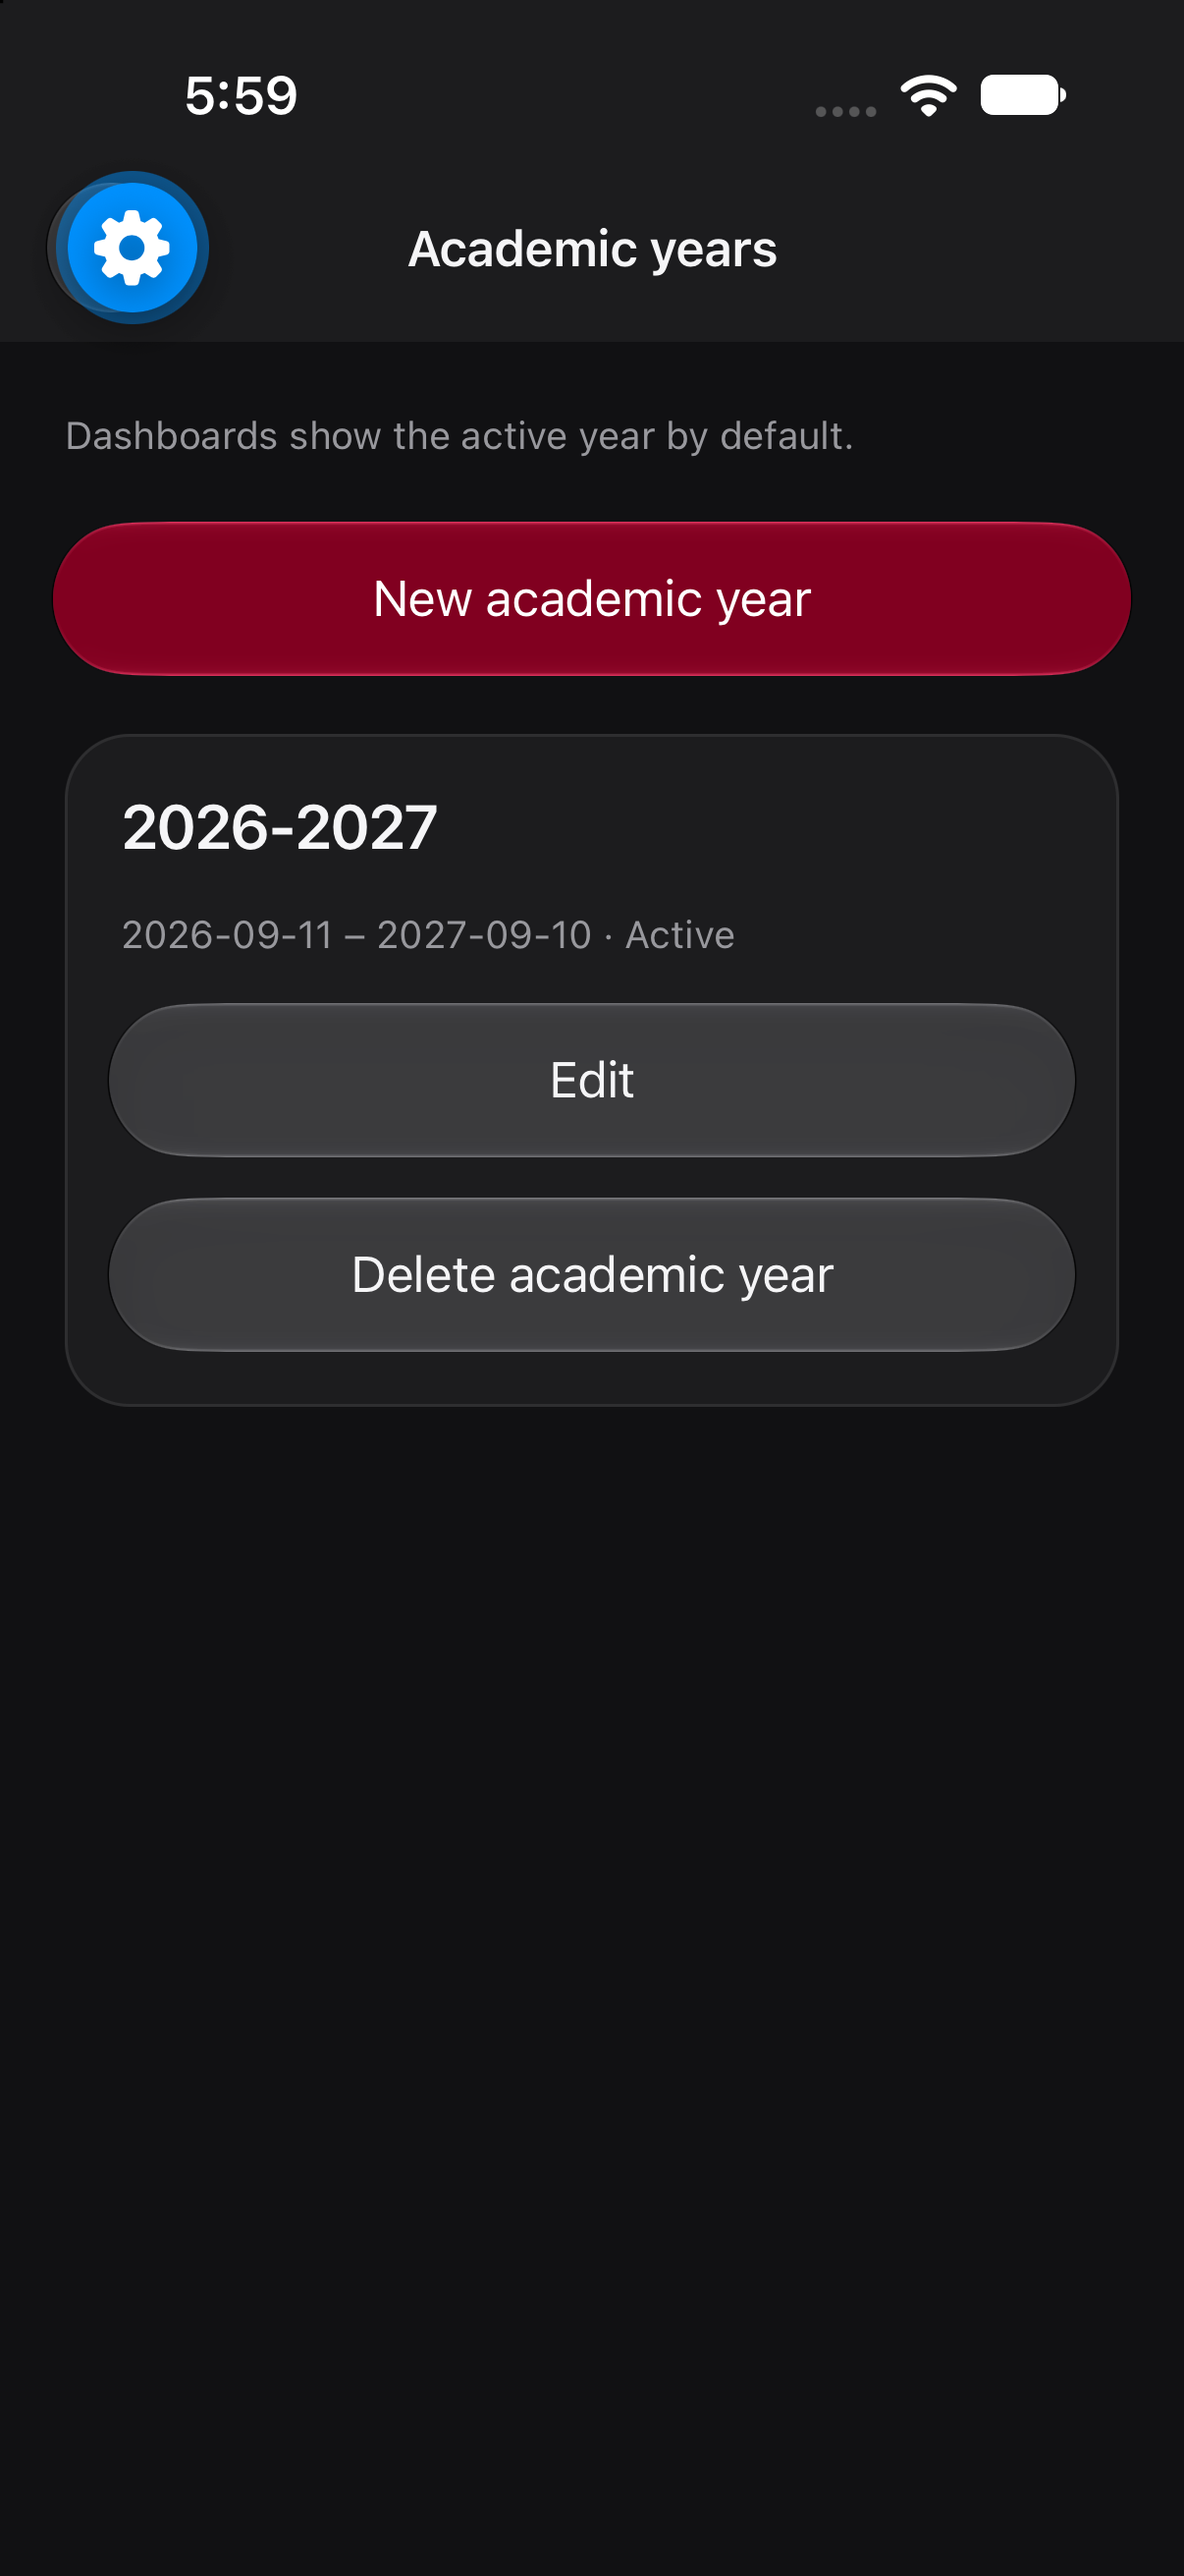
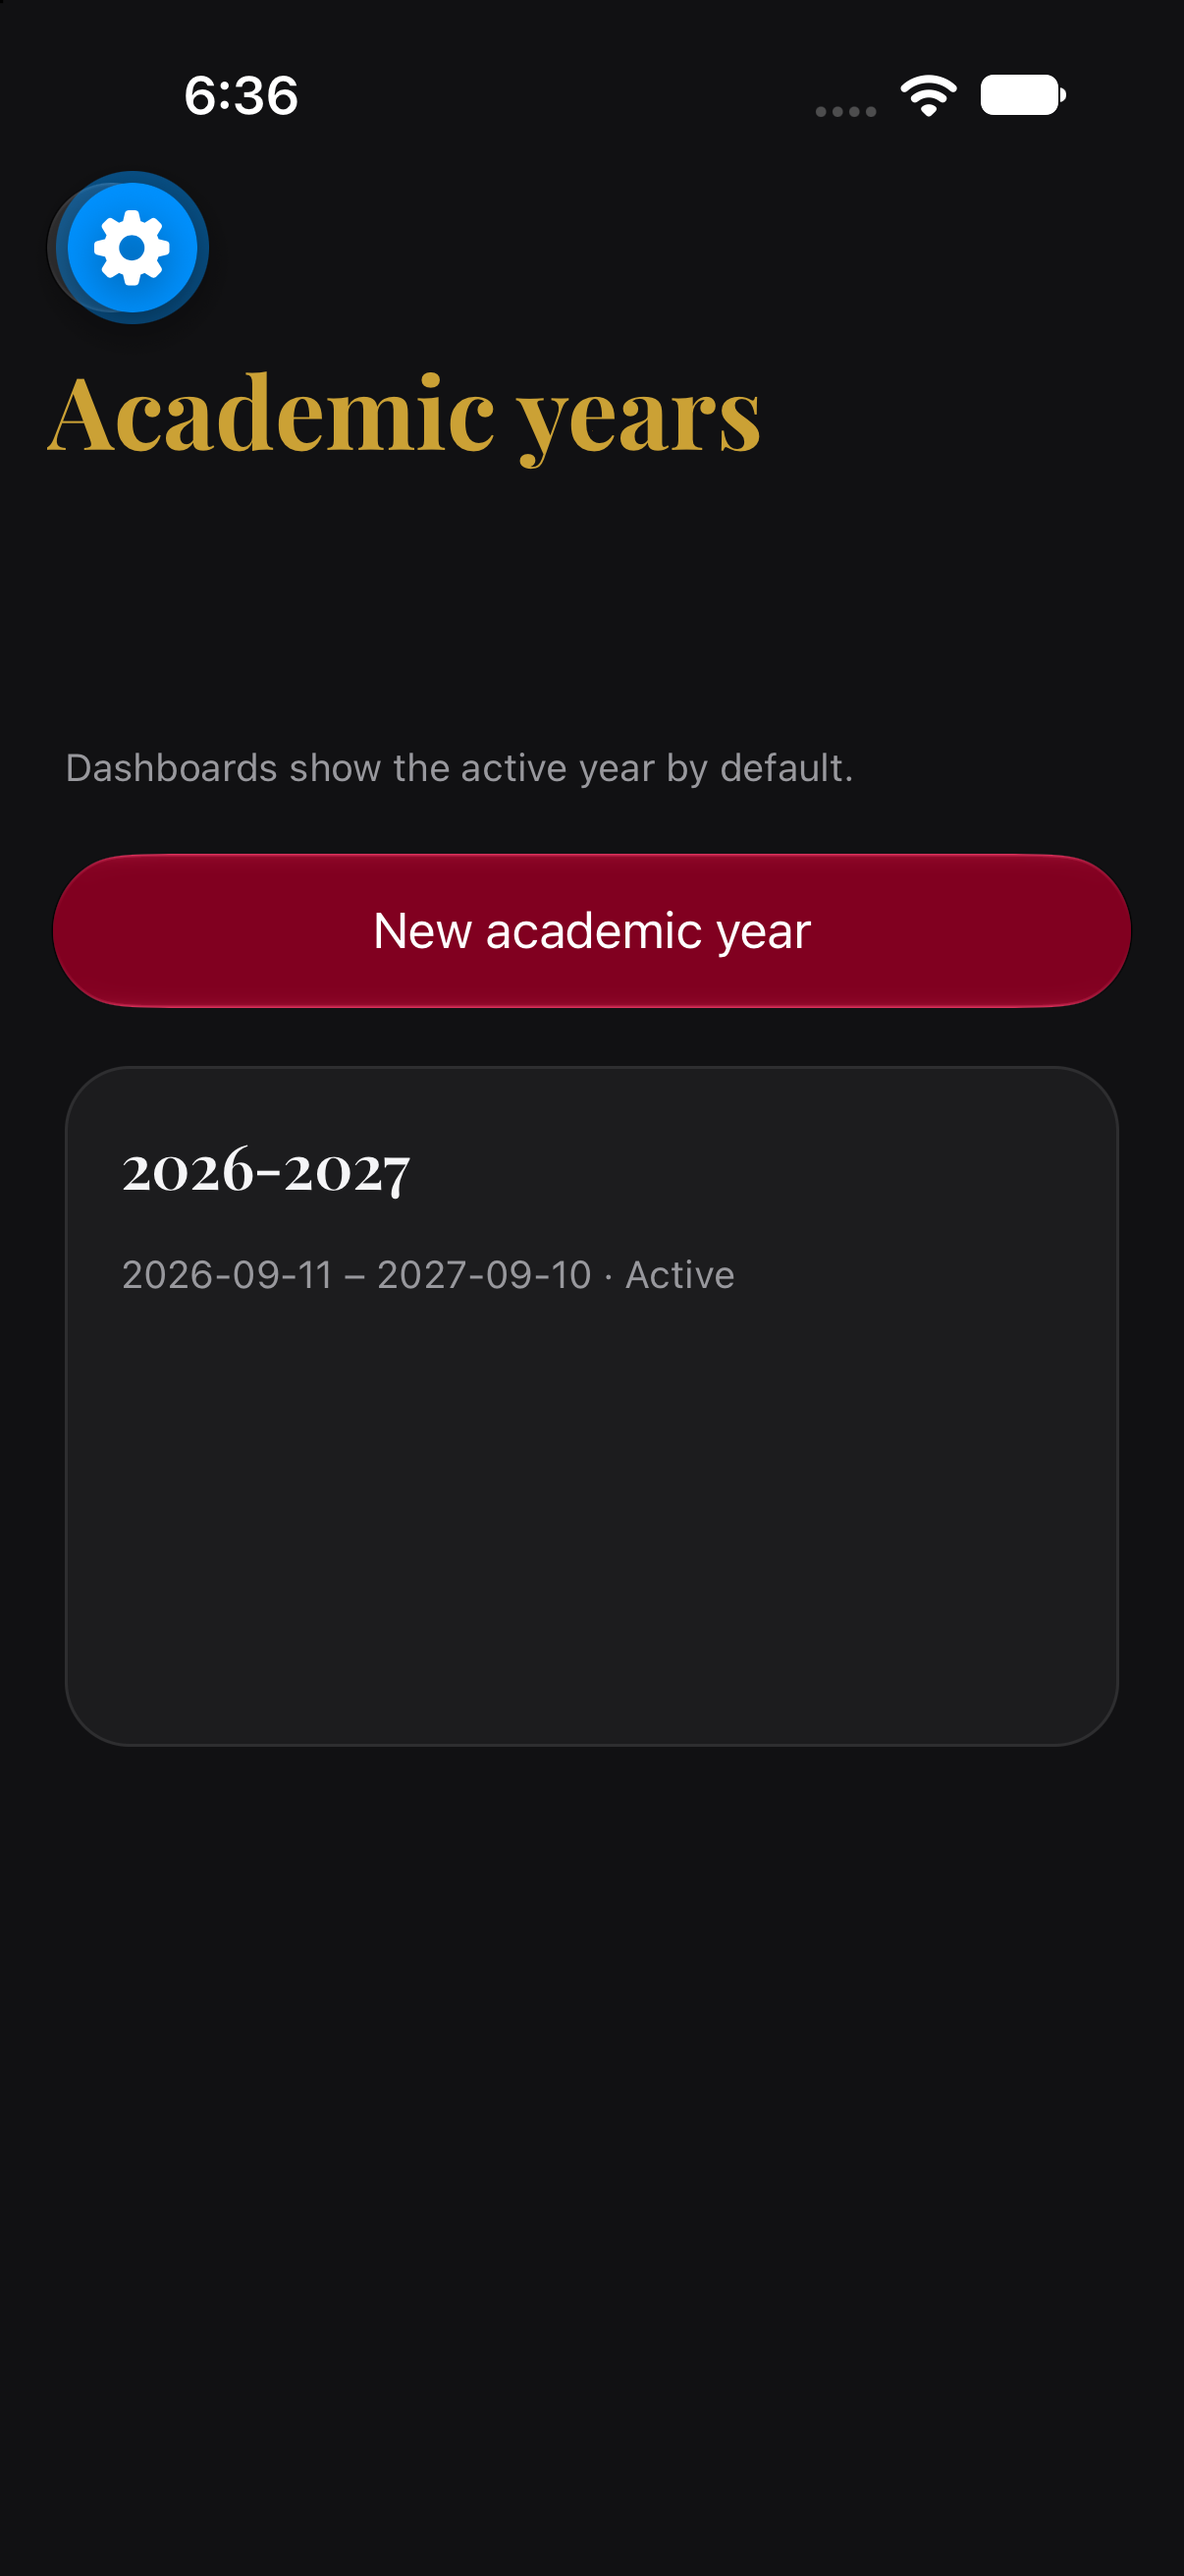
Match the reference's visual language: serif headings, gold dark-mode accent
The shell changes landed the right structure but kept the app's existing
visual theme, which doesn't read like the reference at all: plain system
sans-serif everywhere, and a near-white "primary" accent in dark mode
instead of the reference's gold.

- Bundle Playfair Display (@expo-google-fonts/playfair-display, no manual
  font files needed) and use it for every title/heading — both the custom
  Copy component and native stack header titles (large and inline).
- Dark mode's `primary` token changes from near-white (#F5F5F7) to a gold
  (#CBA135). This is the single token the selected tab icon/label, chips,
  and secondary-button tints already read from, so the whole app picks up
  the reference's gold accent from one change. Light mode already matched
  the reference (burgundy) and is untouched. `action` (filled button
  backgrounds, e.g. "Take attendance") stays burgundy in both modes — it
  already matched, since a filled button's contrast comes from its own
  background against the white label, not from sitting directly on the
  page background the way `primary` does.
- Turn on native large titles for pushed "browse" screens (Academic years,
  Visitations, Age groups, etc. — previously only tab-root screens had
  them), matching the reference's consistent big-title treatment. Form
  sheets and task screens (notifications, account, switch-ministry,
  attendance, lesson) opt back out explicitly.

Claude-Session: https://claude.ai/code/session_01RL75thiWML6qhHsRmGiKcz

Changed region(s): [[0.0307, 0.1236, 0.9511, 0.5252], [0.3375, 0.0927, 0.6443, 0.1236], [0.1841, 0.0309, 0.2454, 0.0618]]

diff --git a/apps/mobile/src/app/_layout.tsx b/apps/mobile/src/app/_layout.tsx
@@ -3,7 +3,12 @@ import { Platform, View } from "react-native";
 import { DarkTheme, DefaultTheme, router, Stack, ThemeProvider } from "expo-router";
 import * as SplashScreen from "expo-splash-screen";
 import { StatusBar } from "expo-status-bar";
-import { AppThemeProvider, useAppTheme } from "@/theme";
+import { useFonts } from "expo-font";
+import {
+  PlayfairDisplay_600SemiBold,
+  PlayfairDisplay_700Bold,
+} from "@expo-google-fonts/playfair-display";
+import { AppThemeProvider, serifDisplay, serifHeading, useAppTheme } from "@/theme";
 import { AuthProvider, useAuth } from "@/data/auth-provider";
 import { PortalProvider, usePortal } from "@/data/portal-provider";
 import { defaultMinistry } from "@/data/navigation";
@@ -52,19 +57,30 @@ function Navigation() {
           headerBackButtonDisplayMode: "minimal",
           contentStyle: { backgroundColor: colors.background },
           headerShadowVisible: false,
+          // Every "browse" destination (Academic years, Visitations, Age
+          // groups, etc.) gets the reference's big serif title. Task-focused
+          // and form-sheet screens below opt back out — a large title
+          // doesn't fit a short sheet or a screen with a dynamic subtitle.
+          headerLargeTitle: Platform.OS === "ios",
+          headerLargeTitleStyle: { fontFamily: serifDisplay },
+          headerTitleStyle: { fontFamily: serifHeading },
         }}
       >
         <Stack.Screen name="(tabs)" options={{ headerShown: false, title: "" }} />
         <Stack.Screen name="(prep)" options={{ headerShown: false, title: "" }} />
         <Stack.Screen
           name="attendance/[classId]"
-          options={{ title: "Take attendance" }}
+          options={{ title: "Take attendance", headerLargeTitle: false }}
         />
-        <Stack.Screen name="lesson/[id]" options={{ title: "Weekly lesson" }} />
+        <Stack.Screen
+          name="lesson/[id]"
+          options={{ title: "Weekly lesson", headerLargeTitle: false }}
+        />
         <Stack.Screen
           name="notifications"
           options={{
             title: "Notifications",
+            headerLargeTitle: false,
             presentation: Platform.OS === "ios" ? "formSheet" : "modal",
             sheetAllowedDetents: Platform.OS === "ios" ? [0.55, 0.92] : undefined,
             sheetInitialDetentIndex: Platform.OS === "ios" ? 1 : undefined,
@@ -76,6 +92,7 @@ function Navigation() {
           name="switch-ministry"
           options={{
             title: "Switch ministry",
+            headerLargeTitle: false,
             presentation: Platform.OS === "ios" ? "formSheet" : "modal",
             sheetAllowedDetents: Platform.OS === "ios" ? [0.4] : undefined,
             sheetInitialDetentIndex: 0,
@@ -86,6 +103,7 @@ function Navigation() {
           name="account"
           options={{
             title: "Account",
+            headerLargeTitle: false,
             presentation: Platform.OS === "ios" ? "formSheet" : "card",
             sheetAllowedDetents:
               Platform.OS === "ios" ? [0.68, 0.95] : undefined,
@@ -112,12 +130,17 @@ export default function RootLayout() {
 
 function AuthenticatedApp() {
   const { user, loading } = useAuth();
+  const [fontsLoaded] = useFonts({
+    PlayfairDisplay_700Bold,
+    PlayfairDisplay_600SemiBold,
+  });
+  const ready = !loading && fontsLoaded;
   const [showSplash, setShowSplash] = useState(true);
   const finishSplash = useCallback(() => setShowSplash(false), []);
 
   return (
     <View style={{ flex: 1, backgroundColor: "#5C1A1A" }}>
-      {!loading &&
+      {ready &&
         (!user || user.mustChangePassword ? (
           <SignIn />
         ) : (
@@ -125,9 +148,7 @@ function AuthenticatedApp() {
             <Navigation />
           </PortalProvider>
         ))}
-      {showSplash && (
-        <LaunchScreen ready={!loading} onFinished={finishSplash} />
-      )}
+      {showSplash && <LaunchScreen ready={ready} onFinished={finishSplash} />}
     </View>
   );
 }

diff --git a/apps/mobile/src/theme.tsx b/apps/mobile/src/theme.tsx
@@ -19,6 +19,14 @@ import {
 
 // Mirrors app/globals.css: the website's neutral surfaces and Sunday School
 // maroon scale are the source of truth for native color decisions.
+//
+// The UI/UX reference pairs a dark theme with a gold accent (selected tab,
+// icons, chips) and reserves burgundy for filled call-to-action buttons —
+// burgundy text/icons directly on a near-black background reads poorly, but
+// burgundy *inside* a solid button has its own contrast against the white
+// label, so `action` (button fills) stays burgundy in both modes while
+// `primary` (accents drawn straight on the background) switches to gold in
+// dark mode only. Light mode already matches the reference there.
 const light = {
   background: "#F7F7F5",
   surface: "#FFFFFF",
@@ -44,7 +52,7 @@ const dark: typeof light = {
   text: "#F5F5F7",
   muted: "#98989D",
   border: "rgba(255, 255, 255, 0.08)",
-  primary: "#F5F5F7",
+  primary: "#CBA135",
   primarySoft: "rgba(255, 255, 255, 0.09)",
   action: "#800020",
   onAction: "#FFFFFF",
@@ -57,6 +65,12 @@ const dark: typeof light = {
   hero: "#5C1A1A",
   onHero: "#FFFFFF",
 };
+
+// The reference's serif display headings, loaded via @expo-google-fonts so no
+// font files need to be vendored by hand. Body/caption text stays the system
+// sans — only titles and section headings switch over (see components/ui.tsx).
+export const serifDisplay = "PlayfairDisplay_700Bold";
+export const serifHeading = "PlayfairDisplay_600SemiBold";
 
 export type AppearancePreference = "system" | "light" | "dark";
 type ResolvedAppearance = "light" | "dark";

diff --git a/apps/mobile/src/components/ui.tsx b/apps/mobile/src/components/ui.tsx
@@ -23,7 +23,7 @@ import { SymbolView, type SFSymbol, type AndroidSymbol } from "expo-symbols";
 import { useFocusEffect } from "expo-router";
 import * as Clipboard from "expo-clipboard";
 import * as Haptics from "expo-haptics";
-import { useAppTheme } from "@/theme";
+import { serifDisplay, serifHeading, useAppTheme } from "@/theme";
 import { dataLabel, useAuth } from "@/data/auth-provider";
 import { NativeActionButton } from "./native-action-button";
 
@@ -525,12 +525,12 @@ export const styles = StyleSheet.create({
     alignSelf: "center",
   },
   title: {
+    fontFamily: serifDisplay,
     fontSize: 34,
-    fontWeight: "700",
-    letterSpacing: -1.1,
+    letterSpacing: -0.4,
     lineHeight: 40,
   },
-  heading: { fontSize: 21, fontWeight: "600", letterSpacing: -0.4 },
+  heading: { fontFamily: serifHeading, fontSize: 21, letterSpacing: -0.2 },
   body: { fontSize: 16, lineHeight: 23 },
   caption: { fontSize: 13, lineHeight: 19 },
   eyebrow: {

diff --git a/apps/mobile/src/components/chrome.tsx b/apps/mobile/src/components/chrome.tsx
@@ -11,7 +11,7 @@ import {
   isGlassEffectAPIAvailable,
   isLiquidGlassAvailable,
 } from "expo-glass-effect";
-import { useAppTheme } from "@/theme";
+import { serifDisplay, serifHeading, useAppTheme } from "@/theme";
 
 export function SectionStack() {
   const { colors } = useAppTheme();
@@ -23,6 +23,8 @@ export function SectionStack() {
         contentStyle: { backgroundColor: colors.background },
         headerShadowVisible: false,
         headerLargeTitle: Platform.OS === "ios",
+        headerLargeTitleStyle: { fontFamily: serifDisplay },
+        headerTitleStyle: { fontFamily: serifHeading },
       }}
     />
   );
